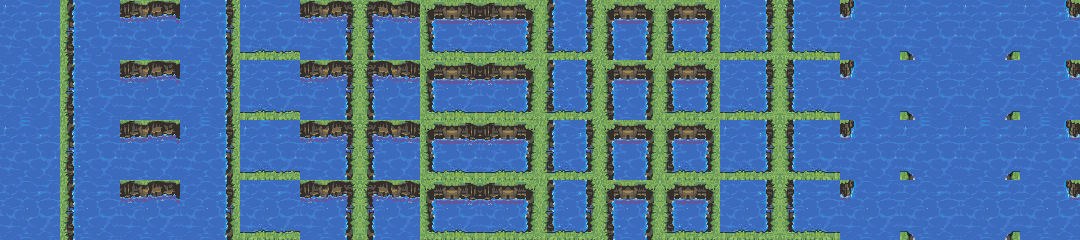
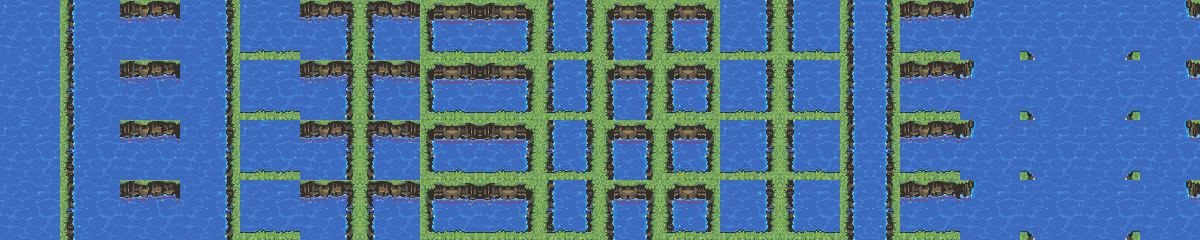
update see border logic

diff --git a/src/lib/Sprites/spriteConnector.ts b/src/lib/Sprites/spriteConnector.ts
@@ -15,40 +15,76 @@ const rollInto: ConnectionDecision = (map, location) =>
 
 const random: ConnectionDecision = (map, location) => Math.floor(Math.random() * 5)
 
-// const cornerDecision = {
-// 	true: {
-// 		true: {
-// 			true: 0,
-// 			false: 5,
-// 		},
-// 		false: {
-// 			true: 0,
-// 			false: 0,
-// 		},
-// 	},
-// 	false: {
-// 		true: ,
-// 		false: ,
-// 	},
-// }
+const borderDecision = {
+	true: {
+		true: {
+			true: {
+				true: 0,
+				false: 4,
+			},
+			false: {
+				true: 3,
+				false: 12,
+			},
+		},
+		false: {
+			true: {
+				true: 2,
+				false: 15, // todo || rotate 1
+			},
+			false: {
+				true: 5,
+				false: 8,
+			},
+		},
+	},
+	false: {
+		true: {
+			true: {
+				true: 1,
+				false: 13,
+			},
+			false: {
+				true: 14, // todo ||
+				false: 9,
+			},
+		},
+		false: {
+			true: {
+				true: 6,
+				false: 7,
+			},
+			false: {
+				true: 10,
+				false: 11,
+			},
+		},
+	},
+}
 const border: ConnectionDecision = (map, location) => {
-	if (
-		left(map, location)(details) &&
-		up(map, location)(details) &&
-		!up(map, location - 1)(details)
-	) {
-		return 5
-	}
-	if (
-		left(map, location)(details) &&
-		down(map, location)(details) &&
-		!down(map, location - 1)(details)
-	) {
-		return 6
+	const border =
+		borderDecision[left(map, location)(ocean) ? 'true' : 'false'][
+			up(map, location)(ocean) ? 'true' : 'false'
+		][right(map, location)(ocean) ? 'true' : 'false'][down(map, location)(ocean) ? 'true' : 'false']
+
+	if (border === 0) {
+		if (!up(map, location + 1)(ocean)) {
+			return 19
+		}
+		if (!down(map, location + 1)(ocean)) {
+			return 18
+		}
+		if (!down(map, location - 1)(ocean)) {
+			return 17
+		}
+		if (!up(map, location - 1)(ocean)) {
+			return 16
+		}
 	}
 
-	return Math.floor(Math.random() * 12)
+	return border
 }
+
 const old = () => {
 	if (x != 0)
 		if (Terrain_Data.TERRE[_map[x - 1][y]].Type != connector)
@@ -308,20 +344,20 @@ const rollDecision = {
 }
 
 const type = (map: GroundObject[], location: number) => map[location].type
-const details = (map: GroundObject[], location: number) => terrainData[map[location].type].details
+const ocean = (map: GroundObject[], location: number) => terrainData[map[location].type].ocean
 
 const up =
 	(map: MapObject, location: number) =>
-	(reader: typeof type | typeof details = type) =>
+	(reader: typeof type | typeof ocean = type) =>
 		location - map.rows >= 0 &&
 		reader(map.layers.ground, location - map.rows) === reader(map.layers.ground, location)
-const down = (map: MapObject, location: number) => (reader: typeof type | typeof details) =>
+const down = (map: MapObject, location: number) => (reader: typeof type | typeof ocean) =>
 	location + map.rows < map.layers.ground.length &&
 	reader(map.layers.ground, location + map.rows) === reader(map.layers.ground, location)
 
-const left = (map: MapObject, location: number) => (reader: typeof type | typeof details) =>
+const left = (map: MapObject, location: number) => (reader: typeof type | typeof ocean) =>
 	location % map.rows !== 0 &&
 	reader(map.layers.ground, location - 1) === reader(map.layers.ground, location)
-const right = (map: MapObject, location: number) => (reader: typeof type | typeof details) =>
+const right = (map: MapObject, location: number) => (reader: typeof type | typeof ocean) =>
 	(location + 1) % map.rows !== 0 &&
 	reader(map.layers.ground, location + 1) === reader(map.layers.ground, location)

diff --git a/src/lib/GameData/Terrain.ts b/src/lib/GameData/Terrain.ts
@@ -4,16 +4,7 @@ type TerrainData = SpriteObject & {
 	connector: 0 | 1 | 2 | 3 | 4
 	name: string
 	description: string
-	details:
-		| 'dirty'
-		| 'rough'
-		| 'rugged'
-		| 'clean'
-		| 'pot-holes'
-		| 'slippery'
-		| 'sea'
-		| 'impassable'
-		| 'connector'
+	details: 'dirty' | 'rough' | 'rugged' | 'clean' | 'pot-holes' | 'slippery' | 'impassable'
 	ocean: boolean
 	protection: number
 	damage: number
@@ -207,7 +198,7 @@ export const terrainData = [
 		connector: 3,
 		name: 'Sea',
 		description: 'Basic sea terrain',
-		details: 'sea',
+		details: 'clean',
 		ocean: true,
 		protection: 0,
 		damage: 0,
@@ -223,7 +214,7 @@ export const terrainData = [
 		connector: 0,
 		name: 'Reef',
 		description: 'Hard to traverse sea terrain',
-		details: 'sea',
+		details: 'dirty',
 		ocean: true,
 		protection: 0.1,
 		damage: 0,
@@ -239,7 +230,7 @@ export const terrainData = [
 		connector: 0,
 		name: 'Archipelago',
 		description: 'Rough sea terrain',
-		details: 'sea',
+		details: 'rough',
 		ocean: true,
 		protection: 0.2,
 		damage: 0,
@@ -255,7 +246,7 @@ export const terrainData = [
 		connector: 0,
 		name: 'Rock Formation',
 		description: 'Rocky sea terrain',
-		details: 'sea',
+		details: 'rugged',
 		ocean: true,
 		protection: 0.7,
 		damage: 20,
@@ -271,7 +262,7 @@ export const terrainData = [
 		connector: 3,
 		name: 'Shore',
 		description: 'An easy access to the sea',
-		details: 'sea',
+		details: 'rough',
 		ocean: true,
 		protection: 0,
 		damage: 0,
@@ -287,7 +278,7 @@ export const terrainData = [
 		connector: 4,
 		name: 'Bridge',
 		description: 'Connects two islands, but provides no defense',
-		details: 'connector',
+		details: 'clean',
 		ocean: false,
 		protection: 0,
 		damage: 0,
@@ -303,7 +294,7 @@ export const terrainData = [
 		connector: 4,
 		name: 'High Bridge',
 		description: 'Connects two islands, and allows ships to pass, but provides no defense',
-		details: 'connector',
+		details: 'clean',
 		ocean: false,
 		protection: 0,
 		damage: 0,

diff --git a/src/lib/Map/MapLoader.svelte b/src/lib/Map/MapLoader.svelte
@@ -15,7 +15,7 @@
 		cols,
 		layers: {
 			ground: new Array(rows * cols).fill(0).map((_, index) => ({
-				type: Math.random() * 3 > 1 ? 11 : Math.floor(Math.random() * 18),
+				type: Math.random() * 3 > 1 ? 0 : 11,
 				state: 0,
 			})),
 			sky: new Array(rows * cols).fill(0).map((_, index) =>
